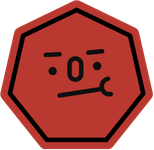
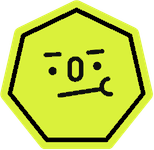
[fix] idioms and avatares

diff --git a/styles.css b/styles.css
@@ -991,11 +991,28 @@ p {
   background: var(--white);
 }
 
-.method-lookbook img {
+.method-lookbook-media {
+  height: 100%;
+  margin: 0;
+}
+
+.method-lookbook-media img {
   width: 100%;
   height: 100%;
   min-height: 320px;
   object-fit: cover;
+}
+
+.lang-image-en {
+  display: none;
+}
+
+html[lang="en"] .lang-image-pt {
+  display: none;
+}
+
+html[lang="en"] .lang-image-en {
+  display: block;
 }
 
 .method-lookbook > div {
@@ -1013,9 +1030,51 @@ p {
 
 .method-lookbook p:not(.eyebrow) {
   max-width: 430px;
+  margin-bottom: 24px;
   color: #6b7280;
   font-size: 14px;
   line-height: 1.7;
+}
+
+.character-roster {
+  display: grid;
+  grid-template-columns: repeat(3, minmax(0, 1fr));
+  gap: 8px;
+}
+
+.character-roster span {
+  display: grid;
+  align-content: start;
+  gap: 7px;
+  min-width: 0;
+  padding: 12px;
+  border: 1px solid #e1e4ec;
+  border-radius: 8px;
+  background: #f8f9fc;
+}
+
+.character-roster img {
+  width: 44px;
+  height: 44px;
+  object-fit: contain;
+}
+
+.character-roster strong,
+.character-roster small {
+  display: block;
+}
+
+.character-roster strong {
+  color: var(--ink);
+  font-family: var(--font-heading);
+  font-size: 13px;
+  letter-spacing: 0;
+}
+
+.character-roster small {
+  color: #737987;
+  font-size: 10px;
+  line-height: 1.35;
 }
 
 .subjects-preview {
@@ -2090,7 +2149,7 @@ p {
     padding: 34px;
   }
 
-  .method-lookbook img {
+  .method-lookbook-media img {
     min-height: 360px;
   }
 
@@ -2276,7 +2335,7 @@ p {
     border-radius: 12px;
   }
 
-  .method-lookbook img {
+  .method-lookbook-media img {
     min-height: 260px;
   }
 
@@ -2286,6 +2345,10 @@ p {
 
   .method-lookbook h3 {
     font-size: 31px;
+  }
+
+  .character-roster {
+    grid-template-columns: 1fr;
   }
 
   .subject-tile,

diff --git a/index.html b/index.html
@@ -60,24 +60,23 @@
         <div class="hero-visual hero-media reveal" aria-label="Ambiente Code Zone com materiais da marca">
           <div class="visual-topline">
             <span>CODE_ZONE.STUDIO</span>
-            <span class="live-label"><i></i> DROP_01</span>
           </div>
           <div class="hero-photo-stage">
-            <img class="hero-photo" src="assets/IMG_6621.PNG" alt="Caixa da Code Zone com personagens da marca em uma mesa de trabalho.">
+            <img class="hero-photo" src="assets/IMG_6320.JPG.jpeg" alt="Chaveiros dos personagens da Code Zone em uma mesa com ambiente de programação.">
             <div class="hero-photo-shade" aria-hidden="true"></div>
             <div class="avatar-cluster" aria-label="Personagens da Code Zone">
-              <img src="assets/Avatar_01.png" alt="Avatar azul da Code Zone">
-              <img src="assets/Avatar_02.png" alt="Avatar circular da Code Zone">
-              <img src="assets/Avatar_03.png" alt="Avatar geométrico da Code Zone">
+              <img src="assets/Avatar_01.png" alt="Pip, avatar azul da Code Zone">
+              <img src="assets/Avatar_02.png" alt="Prompto, avatar circular da Code Zone">
+              <img src="assets/Avatar_03.png" alt="Buggy, avatar amarelo da Code Zone">
             </div>
             <div class="media-badge">
-              <span>CODE, AI</span>
-              <strong>VIBING CODE +</strong>
+              <span>PYTHON, IA</span>
+              <strong>PIP + PROMPTO + BUGGY</strong>
             </div>
             <div class="media-scanline" aria-hidden="true"></div>
           </div>
           <div class="visual-footer">
-            <span>LEARN_01</span><span>BUILD_02</span><span>SHIP_03</span>
+            <span>APRENDER_01</span><span>CONSTRUIR_02</span><span>PUBLICAR_03</span>
           </div>
         </div>
       </div>
@@ -106,8 +105,8 @@
             <source src="assets/IMG_6622.MP4" type="video/mp4">
           </video>
           <div class="vibe-caption">
-            <span>STUDIO_LOG</span>
-            <strong>STOP TALKING, START CODING.</strong>
+            <span>REGISTRO_STUDIO</span>
+            <strong>PARE DE FALAR, COMECE A CODAR.</strong>
           </div>
         </div>
       </div>
@@ -155,11 +154,19 @@
         </div>
 
         <div class="method-lookbook reveal">
-          <img src="assets/IMG_6319.PNG" alt="Chaveiros dos personagens da Code Zone sobre uma mesa de estudo.">
+          <figure class="method-lookbook-media">
+            <img class="lang-image lang-image-pt" src="assets/IMG_6319.PNG" alt="Caixa da Code Zone em português sobre uma mesa de estudo.">
+            <img class="lang-image lang-image-en" src="assets/IMG_6621.PNG" alt="Caixa da Code Zone em inglês sobre uma mesa de estudo.">
+          </figure>
           <div>
-            <p class="eyebrow eyebrow-dark">// PERSONALIDADE</p>
-            <h3>Visual próprio, estudo sério.</h3>
-            <p>Os personagens deixam a experiência mais próxima e memorável, mas o centro continua o mesmo: aprender, construir e explicar o que foi feito.</p>
+            <p class="eyebrow eyebrow-dark">// COMPANHEIROS</p>
+            <h3>Pip, Prompto e Buggy.</h3>
+            <p>Eles são o trio de jornada da Code Zone: Pip ajuda no primeiro passo com Python, Prompto transforma dúvida em prompt e Buggy chega desconfiado para caçar erro antes do deploy.</p>
+            <div class="character-roster" aria-label="Companheiros de jornada da Code Zone">
+              <span><img src="assets/Avatar_01.png" alt="" aria-hidden="true"><strong>Pip</strong><small>pip install coragem</small></span>
+              <span><img src="assets/Avatar_02.png" alt="" aria-hidden="true"><strong>Prompto</strong><small>transforma dúvida em prompt</small></span>
+              <span><img src="assets/Avatar_03.png" alt="" aria-hidden="true"><strong>Buggy</strong><small>debuga antes do deploy</small></span>
+            </div>
           </div>
         </div>
       </div>

diff --git a/i18n.js b/i18n.js
@@ -65,6 +65,15 @@
     'Rede conectando programação, dados e inteligência artificial': 'Network connecting programming, data, and artificial intelligence',
     'Ambiente Code Zone com materiais da marca': 'Code Zone environment with brand materials',
     'Personagens da Code Zone': 'Code Zone characters',
+    'Chaveiros dos personagens da Code Zone em uma mesa com ambiente de programação.': 'Code Zone character keychains on a desk with a programming setup.',
+    'Buguizinho, avatar azul da Code Zone': 'Buggy, blue Code Zone avatar',
+    'Loopinho, avatar circular da Code Zone': 'Loopy, circular Code Zone avatar',
+    'Patchinho, avatar amarelo da Code Zone': 'Patchy, yellow Code Zone avatar',
+    'CÓDIGO, IA': 'CODE, AI',
+    'VIBE CODANDO +': 'VIBING CODE +',
+    'APRENDER_01': 'LEARN_01',
+    'CONSTRUIR_02': 'BUILD_02',
+    'PUBLICAR_03': 'SHIP_03',
     'módulos conectados': 'connected modules',
     'projetos práticos': 'hands-on projects',
     'aulas e módulos': 'lessons and modules',
@@ -78,6 +87,8 @@
     'Prática': 'Practice',
     'Repertório': 'Repertoire',
     'Vídeo com ambientação visual da Code Zone': 'Video with Code Zone visual atmosphere',
+    'REGISTRO_STUDIO': 'STUDIO_LOG',
+    'PARE DE FALAR, COMECE A CODAR.': 'STOP TALKING, START CODING.',
     '// NOSSO MÉTODO': '// OUR METHOD',
     'Aprender é': 'Learning means',
     'construir.': 'building.',
@@ -94,6 +105,15 @@
     '// PERSONALIDADE': '// PERSONALITY',
     'Visual próprio, estudo sério.': 'Distinct visuals, serious learning.',
     'Os personagens deixam a experiência mais próxima e memorável, mas o centro continua o mesmo: aprender, construir e explicar o que foi feito.': 'The characters make the experience more approachable and memorable, but the center stays the same: learn, build, and explain what was done.',
+    'Caixa da Code Zone em português sobre uma mesa de estudo.': 'Code Zone box in Portuguese on a study desk.',
+    'Caixa da Code Zone em inglês sobre uma mesa de estudo.': 'Code Zone box in English on a study desk.',
+    'Nomes dos personagens da Code Zone': 'Code Zone character names',
+    'Buguizinho': 'Buggy',
+    'Loopinho': 'Loopy',
+    'Patchinho': 'Patchy',
+    'debuga o caos': 'debugs the chaos',
+    'repete até ficar claro': 'loops until clear',
+    'corrige e manda ver': 'patches and ships',
     '// MÓDULOS': '// MODULES',
     'Escolha seu': 'Choose your',
     'próximo bloco.': 'next block.',
@@ -2085,7 +2105,7 @@
   };
 
   const translateAttributes = (element, language, refreshOriginal = false) => {
-    const attributes = ['aria-label', 'placeholder', 'title'];
+    const attributes = ['aria-label', 'placeholder', 'title', 'alt'];
     if (!originalAttributes.has(element)) originalAttributes.set(element, {});
     const originals = originalAttributes.get(element);
 